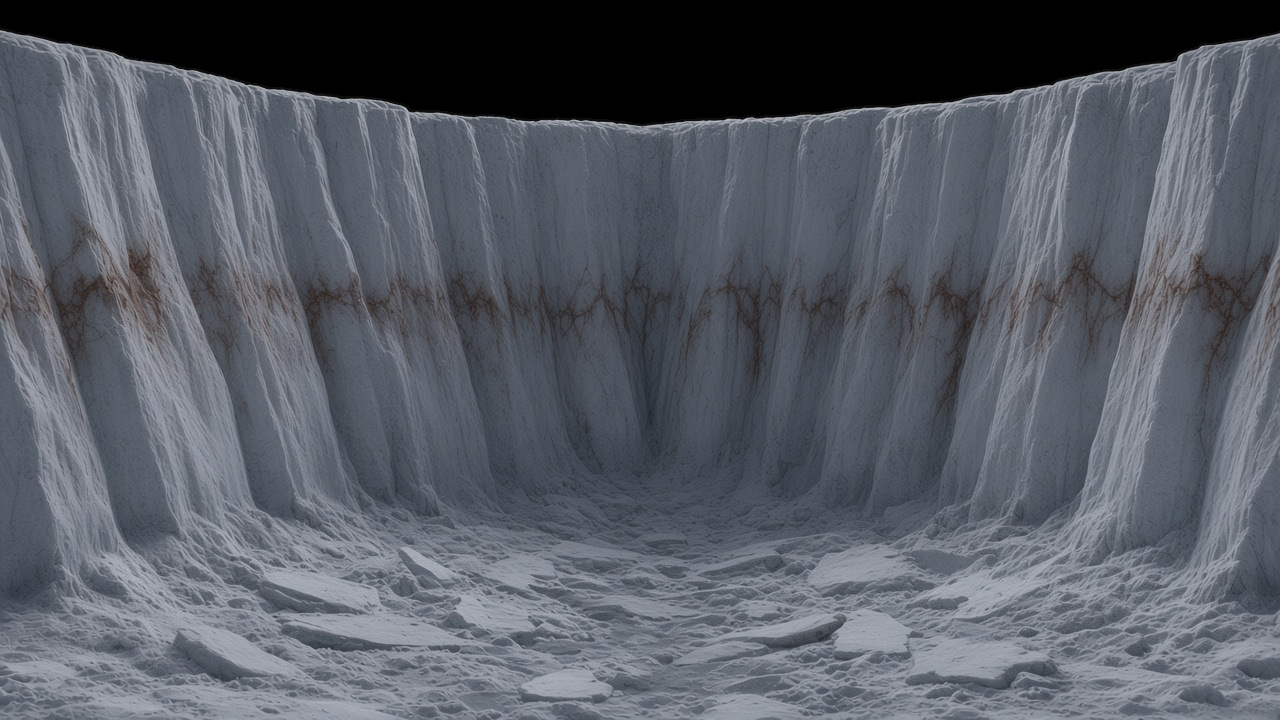
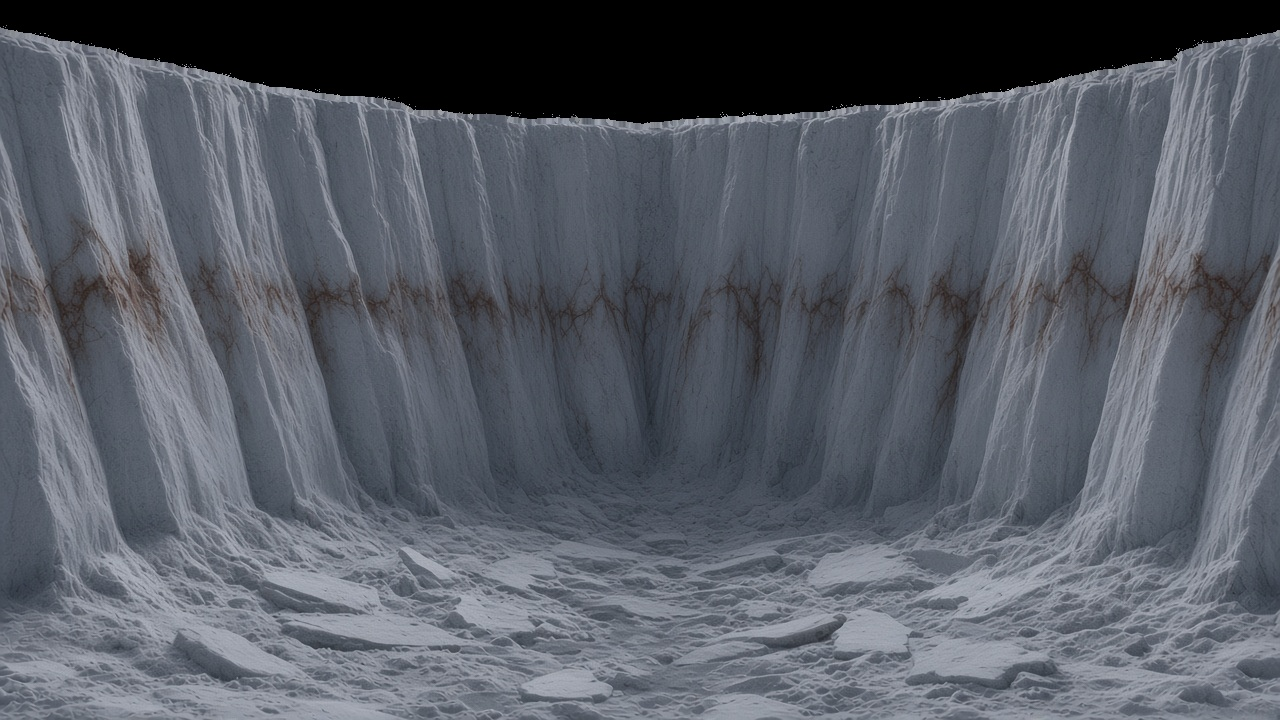
Canyon: defringe keyed edges, crop sides off the front sky slot, hard wall edges (test)

diff --git a/surface/src/main.js b/surface/src/main.js
@@ -612,10 +612,10 @@ registerLocation({
     // front on top (wide fades), sides next, back underneath. Dark sky slots are keyed out so the real stars show.
     const wall = { arcDeg: 116, order: 11, horizon: 0.47, keySky: true, keyLo: 0.0005, keyHi: 0.0015, keyBand: [0.5, 0.55] };   // sky is baked to pure black in the pictures and rock is floored above it, so only the true sky keys out
     addVista(group, this, { vistas: [
-      { url: './assets/canyon-vista.jpg', yawDeg: 0, arcDeg: 116, horizon: 0.47, order: 12, sideFade: 0.03, keySky: true, keyLo: 0.0005, keyHi: 0.0015, keyBand: [0.5, 0.55] },  // sky baked to pure black; dark rock is floored so it can never key out (stars bled through the tall wall before)
-      { ...wall, url: './assets/vistas/canyon-left.jpg',  yawDeg: -75, sideFade: 0.03 },
-      { ...wall, url: './assets/vistas/canyon-right.jpg', yawDeg: 75,  sideFade: 0.03 },
-      { url: './assets/vistas/canyon-back.jpg', yawDeg: 180, arcDeg: 140, order: 10, horizon: 0.47, sideFade: 0.03, keySky: true, keyLo: 0.0005, keyHi: 0.0015, keyBand: [0.5, 0.55] }
+      { url: './assets/canyon-vista.jpg', yawDeg: 0, arcDeg: 116, horizon: 0.47, order: 12, sideFade: 0.003, keySky: true, keyLo: 0.0005, keyHi: 0.0015, keyBand: [0.5, 0.55] },  // sky baked to pure black; dark rock is floored so it can never key out (stars bled through the tall wall before)
+      { ...wall, url: './assets/vistas/canyon-left.jpg',  yawDeg: -75, sideFade: 0.003, cropR: 0.349 },
+      { ...wall, url: './assets/vistas/canyon-right.jpg', yawDeg: 75,  sideFade: 0.003, cropL: 0.349 },
+      { url: './assets/vistas/canyon-back.jpg', yawDeg: 180, arcDeg: 140, order: 10, horizon: 0.47, sideFade: 0.003, cropL: 0.160, cropR: 0.160, keySky: true, keyLo: 0.0005, keyHi: 0.0015, keyBand: [0.5, 0.55] }
     ] });
     groundTint(group, this.pos, 0x737a84, 160, 0.7);
     // no procedural ridges here any more: the four panels cover 360 deg and ridges poked above the painted horizon
